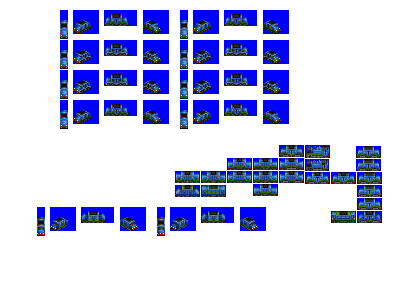
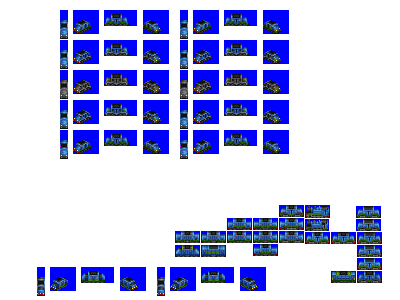
Change: additional black livery for Abernant, Stoat

diff --git a/src/vehicles/pony/stoat.py b/src/vehicles/pony/stoat.py
@@ -21,7 +21,7 @@ def main(**kwargs):
         intro_year_offset=3,  # introduce later than gen epoch by design
         extended_vehicle_life=True,
         fixed_run_cost_points=105,  # substantial cost bonus so it can make money
-        liveries=["LOWER_LINES", "BANGER_BLUE", "INDUSTRIAL_YELLOW"],
+        liveries=["LOWER_LINES", "BANGER_BLUE", "FREIGHT_BLACK", "INDUSTRIAL_YELLOW"],
         sprites_complete=True,
     )
 

diff --git a/src/vehicles/pony/abernant.py b/src/vehicles/pony/abernant.py
@@ -20,7 +20,7 @@ def main(**kwargs):
         gen=2,
         intro_year_offset=5,  # let's be a little bit later for this one
         extended_vehicle_life=True,
-        liveries=["STOCK_STANDARD", "WORKHORSE", "INDUSTRIAL_YELLOW"],
+        liveries=["STOCK_STANDARD", "WORKHORSE", "FREIGHT_BLACK", "INDUSTRIAL_YELLOW"],
         sprites_complete=True,
     )
 

diff --git a/bin/company_colour_remaps.py b/bin/company_colour_remaps.py
@@ -9,8 +9,8 @@ from polar_fox import graphics_units
 # requires a tmp dir to exist, which should be gitignored
 # set the filename
 input_filenames = [
-    "withershins",
-    "yillen",
+    "abernant",
+    "stoat",
 ]
 
 CC1 = 198
